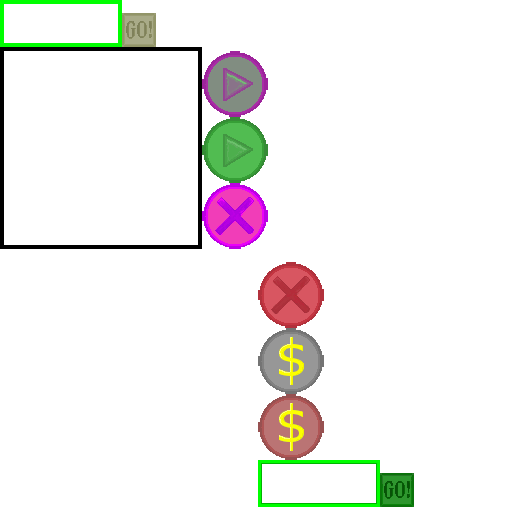
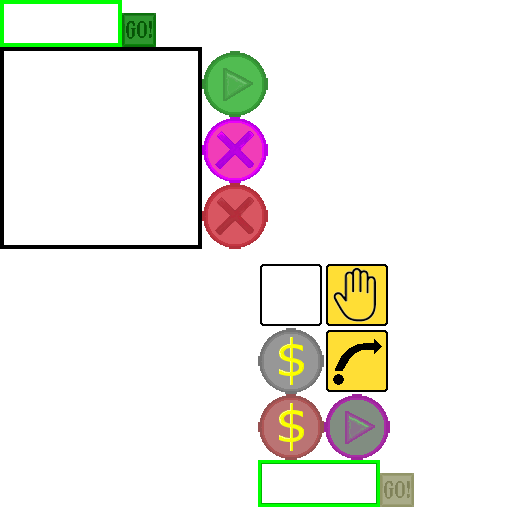
imagebuttons & weaponInv

Changed region(s): [[0.5, 0.5, 0.8125, 1.0], [0.375, 0.0938, 0.5312, 0.5], [0.2188, 0.0, 0.3125, 0.0938]]

diff --git a/SwampMonster/src/com/me/swampmonster/models/L1.java b/SwampMonster/src/com/me/swampmonster/models/L1.java
@@ -7,11 +7,14 @@ import java.util.List;
 import java.util.Random;
 import java.util.Stack;
 
+import com.badlogic.gdx.graphics.g2d.Sprite;
 import com.badlogic.gdx.maps.tiled.TiledMapTileLayer;
 import com.badlogic.gdx.math.Intersector;
 import com.badlogic.gdx.math.Vector2;
 import com.badlogic.gdx.math.Vector3;
 import com.badlogic.gdx.scenes.scene2d.Actor;
+import com.badlogic.gdx.scenes.scene2d.ui.ImageButton;
+import com.badlogic.gdx.scenes.scene2d.ui.Label;
 import com.badlogic.gdx.scenes.scene2d.ui.TextButton;
 import com.badlogic.gdx.scenes.scene2d.utils.ChangeListener;
 import com.me.swampmonster.game.GShape;
@@ -24,7 +27,9 @@ import com.me.swampmonster.models.enemies.Enemy;
 import com.me.swampmonster.models.enemies.EnemySofa;
 import com.me.swampmonster.models.items.HealthKit;
 import com.me.swampmonster.models.items.Oxygen;
+import com.me.swampmonster.models.items.WeaponItem;
 import com.me.swampmonster.models.slots.PoisonArrow;
+import com.me.swampmonster.utils.Assets;
 import com.me.swampmonster.utils.CameraHelper;
 import com.me.swampmonster.utils.Constants;
 import com.me.swampmonster.utils.MisterItemSpawner;
@@ -259,23 +264,51 @@ public class L1 {
 					if(a.equals(item.throwButton)){
 						a.remove();
 					}
-				}
+				}for(Actor a: L1Renderer.stage.getActors()){
+					if(a.equals(item.itemName)){
+						a.remove();
+					}
+			}
 			}else{
 				if (Intersector.overlaps(item.circle, player.rectanlge)
 						&& item.state != State.SPAWNING
 						&& item.pickUpButton == null 
 						&& item.throwButton == null && !(item instanceof Oxygen)
 								&& !(item instanceof HealthKit)) {
-					item.pickUpButton = new TextButton("Use " + item.name,
-							GShape.skin);
-					item.pickUpButton.setSize(150, 50);
-					item.pickUpButton.setX(220);
+					item.itemName = new Label(item.name, GShape.skin);
+					item.itemName.setX(260);
+					item.itemName.setY(yPositionsForButton.get(i));
+					item.pickUpButton = new ImageButton(GShape.skin, "use");
+					item.pickUpButton.setSize(50, 50);
+					item.pickUpButton.setX(400);
 					item.pickUpButton.setY(yPositionsForButton.get(i));
-					item.throwButton = new TextButton("Throw " + item.name,
-							GShape.skin);
-					item.throwButton.setSize(150, 50);
-					item.throwButton.setX(380);
-					item.throwButton.setY(yPositionsForButton.get(i));
+					if(!(item instanceof WeaponItem)){
+						item.throwButton = new ImageButton(GShape.skin, "throw");
+						item.throwButton.setSize(50, 50);
+						item.throwButton.setX(460);
+						item.throwButton.setY(yPositionsForButton.get(i));
+						item.throwButton.addListener(new ChangeListener() {
+						@Override
+							public void changed(ChangeEvent event, Actor actor) {
+								System.out.println("item: " + item);
+								item.parametersForThrowing(player);
+								for(Actor a: L1Renderer.stage.getActors()){
+									if(a.equals(item.pickUpButton)){
+										a.remove();
+										item.pickUpButton = null;
+										i--;
+									}
+								}
+								for(Actor a: L1Renderer.stage.getActors()){
+									if(a.equals(item.throwButton)){
+										a.remove();
+										item.throwButton = null;
+									}
+								}
+	//							Gdx.input.setInputProcessor(null);
+							}
+						});
+					}
 					i++;
 					item.pickUpButton.addListener(new ChangeListener() {
 						@Override
@@ -297,29 +330,12 @@ public class L1 {
 //							Gdx.input.setInputProcessor(null);
 						}
 					});
-					item.throwButton.addListener(new ChangeListener() {
-						@Override
-						public void changed(ChangeEvent event, Actor actor) {
-							System.out.println("item: " + item);
-							item.parametersForThrowing(player);
-							for(Actor a: L1Renderer.stage.getActors()){
-								if(a.equals(item.pickUpButton)){
-									a.remove();
-									item.pickUpButton = null;
-									i--;
-								}
-							}
-							for(Actor a: L1Renderer.stage.getActors()){
-								if(a.equals(item.throwButton)){
-									a.remove();
-									item.throwButton = null;
-								}
-							}
-//							Gdx.input.setInputProcessor(null);
-						}
-					});
+					
 					L1Renderer.stage.addActor(item.pickUpButton);
-					L1Renderer.stage.addActor(item.throwButton);
+					if(!(item instanceof WeaponItem)){
+						L1Renderer.stage.addActor(item.throwButton);
+					}
+					L1Renderer.stage.addActor(item.itemName);
 				}
 				else if(!Intersector.overlaps(item.circle, player.rectanlge)){
 					for(Actor a: L1Renderer.stage.getActors()){
@@ -333,7 +349,13 @@ public class L1 {
 							a.remove();
 						}
 					}
+					for(Actor a: L1Renderer.stage.getActors()){
+						if(a.equals(item.itemName)){
+							a.remove();
+						}
+					}
 					item.throwButton = null;
+					item.itemName = null;
 					item.pickUpButton = null;
 				}
 				if(Intersector.overlaps(item.circle, player.rectanlge) && (item instanceof Oxygen

diff --git a/SwampMonster/src/com/me/swampmonster/game/WeaponUIWindow.java b/SwampMonster/src/com/me/swampmonster/game/WeaponUIWindow.java
@@ -1,0 +1,67 @@
+package com.me.swampmonster.game;
+
+import com.badlogic.gdx.scenes.scene2d.ui.Dialog;
+import com.badlogic.gdx.scenes.scene2d.ui.Image;
+import com.badlogic.gdx.scenes.scene2d.ui.Label;
+import com.badlogic.gdx.scenes.scene2d.ui.Skin;
+import com.badlogic.gdx.scenes.scene2d.ui.Table;
+import com.badlogic.gdx.scenes.scene2d.ui.TextButton;
+import com.me.swampmonster.models.L1;
+import com.me.swampmonster.models.AbstractGameObject.State;
+import com.me.swampmonster.models.items.Weapon;
+import com.me.swampmonster.models.slots.Perks;
+import com.me.swampmonster.models.slots.Slot;
+import com.me.swampmonster.screens.SlotMachineScreen;
+import com.me.swampmonster.slotMachineStuff.SlotMachineTextures;
+import com.me.swampmonster.utils.Assets;
+import com.me.swampmonster.utils.Constants;
+
+public class WeaponUIWindow extends Dialog{
+
+	public Table tabl1;
+	public Table tabl2;
+	public Image wepPicture1;
+	public Image wepPicture2;
+	public Label header1;
+	public Label header2;
+	public TextButton keepButton;
+	public TextButton takeButton;
+	public Weapon wep;
+	
+	public WeaponUIWindow(String title, Skin skin, Weapon weapon) {
+		super("", skin);
+		
+		wep = weapon;
+		
+		tabl1 = new Table();
+		tabl2 = new Table();
+		wepPicture1 = new Image(L1.player.weapon.sprite);
+		wepPicture2 = new Image(weapon.sprite.getTexture());
+		header1 = new Label(L1.player.weapon.name, skin);
+		header2 = new Label(weapon.name, skin);
+		keepButton = new TextButton("KEEP", skin);
+		takeButton = new TextButton("TAKE", skin);
+		
+		tabl1.add(header1);
+		tabl1.add(wepPicture1);
+		tabl2.add(header2);
+		tabl2.add(wepPicture2);
+		
+		getContentTable().add(tabl1).left();
+		getContentTable().add(tabl2).right();
+		
+		button(keepButton, "Keep");
+		button(takeButton, "Take");
+	}
+	
+	@Override
+	protected void result(Object object) {
+		if(object == "Take"){
+			L1.player.weapon = wep;
+		}
+			
+		TheController.paused = false;
+		super.result(object);
+	}
+	
+}

diff --git a/SwampMonster/src/com/me/swampmonster/utils/WaveGenerator.java b/SwampMonster/src/com/me/swampmonster/utils/WaveGenerator.java
@@ -14,16 +14,16 @@ public class WaveGenerator {
 	
 	private enum WaveParams{
 		//                     *-et*+et*-tt*+tt*-ws**+ws*-tw*+tw**-eb*+eb**rate***perd*-w**+w*
-		p0_500					(0,  1,  0,  2,  6,   12,  2,  5,  6,  7,  12.0f,  50,  2,  3),
+		p0_500					(0,  1,  0,  2,  7,   12,  2,  5,  6,  7,  12.0f,  50,  2,  3),
 		p0_500_Elite			(0,  1,  1,  2,  7,   13,  7,  13, 6,  7,  12.0f,  50,  2,  3),
 		p0_500_A				(4,  5,  0,  2,  10,  17,  0,  1,  6,  7,  12.0f,  50,  2,  3),
 		//                     *-et*+et*-tt*+tt*-ws**+ws*-tw*+tw***-eb*+eb**rate***perd*-w**+w*
-		p500_1000				(0,  1,  0,  2,  12,  20,  8,  16,  6,  7,  12.0f,  50,  2,  3),
+		p500_1000				(0,  1,  0,  2,  12,  20,  8,  12,  6,  7,  12.0f,  50,  2,  3),
 		p500_1000_Elite			(0,  1,  1,  2,  10,  17,  10, 17,  6,  7,  12.0f,  50,  2,  3),
 		p500_1000_A				(4,  5,  0,  2,  15,  23,  0,  1,   6,  7,  12.0f,  50,  2,  3),
 		//     				   *-et*+et*-tt*+tt*-ws**+ws**-tw*+tw**-eb**+eb***rate**perd*-w**+w*
-		p1000_3000				(0,  2,  0,  3,  18,  30,  12, 25,  12,  18,  9.5f,  50,  3,  4),
-		p1000_3000_Elite		(0,  1,  1,  3,  14,  22,  14, 22,  14,  18,  9.5f,  50,  3,  4),
+		p1000_3000				(0,  2,  0,  3,  18,  30,  9, 18,  12,  18,  9.5f,  50,  3,  4),
+		p1000_3000_Elite		(0,  1,  1,  3,  14,  22,  14, 22, 14,  18,  9.5f,  50,  3,  4),
 		p1000_3000_A			(4,  5,  0,  3,  10,  20,  0,  5,  11,  18,  9.5f,  50,  3,  4),
 		//     				   *-et*+et*-tt*+tt*-ws**+ws*-tw**+tw**-eb**+eb***rate**perd*-w**+w*
 		p3000_5000				(0,  3,  0,  4,  25,  35,  8,  20,  15,  25,  6.0f,  50,  3,  5),

diff --git a/SwampMonster/src/com/me/swampmonster/models/items/WeaponItem.java b/SwampMonster/src/com/me/swampmonster/models/items/WeaponItem.java
@@ -2,6 +2,10 @@ package com.me.swampmonster.models.items;
 
 import com.badlogic.gdx.graphics.g2d.Sprite;
 import com.me.swampmonster.animations.AnimationControl;
+import com.me.swampmonster.game.GShape;
+import com.me.swampmonster.game.L1Renderer;
+import com.me.swampmonster.game.TheController;
+import com.me.swampmonster.game.WeaponUIWindow;
 import com.me.swampmonster.models.Item;
 import com.me.swampmonster.models.Player;
 import com.me.swampmonster.utils.Assets;
@@ -24,12 +28,19 @@ public class WeaponItem extends Item{
 	
 	@Override
 	public void pickMeUp(Player player) {
-		player.weapon = this.weapon;
+//		player.weapon = this.weapon;
+		TheController.showWeaponInv = true;
+		GShape.weaponDialog = new WeaponUIWindow("statuk'", GShape.skin, weapon);
+		GShape.weaponDialog.setSize(250, 250);
+		GShape.weaponDialog.setX(320);
+		GShape.weaponDialog.setY(50);
+		TheController.paused = true;
 		System.out.println("player weapon stats: type:"
 				+ player.weapon.getClass().getSimpleName() + " attack: "
 				+ player.weapon.minDD + " - " + player.weapon.maxDD + " mods: "
 				+ player.weapon.mod1 + " " + player.weapon.mod2);
 		state = State.DEAD;
+		L1Renderer.stage.addActor(GShape.weaponDialog);
 	}
 
 	@Override

diff --git a/SwampMonster/src/com/me/swampmonster/utils/ItemGenerator.java b/SwampMonster/src/com/me/swampmonster/utils/ItemGenerator.java
@@ -95,8 +95,8 @@ public class ItemGenerator {
 				+ itEmsTypes.minItemGenerate;
 		Item item = null;
 		try {
-			Class<? extends Item> itemClass = items.get(number);
-//			Class<? extends Item> itemClass = CHAIN_ARROWS.class;
+//			Class<? extends Item> itemClass = items.get(number);
+			Class<? extends Item> itemClass = HASTE.class;
 			int randomTextureNumber;
 			if (itemClass.getDeclaredField("poisonSprite").get(null) == null) {
 				randomTextureNumber = random.nextInt(poisonTextures.size());
@@ -126,12 +126,12 @@ public class ItemGenerator {
 	
 	public Item generateItem(int playersScore) {
 		int probability = random.nextInt(100);
-		if (probability > 70){
-			return generateSpecialItem(playersScore);
-//			return getWeaponItem(playersScore);
-		} else {
-			return getPlainItem(playersScore);
-		}
+//		if (probability > 70){
+//			return generateSpecialItem(playersScore);
+			return getWeaponItem(playersScore);
+//		} else {
+//			return getPlainItem(playersScore);
+//		}
 	}
 	
 	public Item getMoreLikelyOxugenItem(int playersScore){

diff --git a/SwampMonster/src/com/me/swampmonster/models/Item.java b/SwampMonster/src/com/me/swampmonster/models/Item.java
@@ -9,6 +9,8 @@ import com.badlogic.gdx.graphics.g2d.TextureRegion;
 import com.badlogic.gdx.maps.tiled.TiledMapTileLayer;
 import com.badlogic.gdx.math.Circle;
 import com.badlogic.gdx.math.Vector2;
+import com.badlogic.gdx.scenes.scene2d.ui.ImageButton;
+import com.badlogic.gdx.scenes.scene2d.ui.Label;
 import com.badlogic.gdx.scenes.scene2d.ui.TextButton;
 import com.me.swampmonster.game.collision.CollisionHelper;
 
@@ -27,8 +29,10 @@ public abstract class Item extends AbstractGameObject{
 	public Vector2 spawnPos;
 	public Vector2 targetPos;
 	public TiledMapTileLayer collisionLayer;
-	public TextButton pickUpButton;
-	public TextButton throwButton;
+	public ImageButton pickUpButton;
+	public ImageButton throwButton;
+	public ImageButton inspectButton;
+	public Label itemName;
 	
 	//Animations
 	public Item(){

diff --git a/SwampMonster/src/com/me/swampmonster/models/Player.java b/SwampMonster/src/com/me/swampmonster/models/Player.java
@@ -733,7 +733,7 @@ public class Player extends AbstractGameObject {
 					sprite.getColor().b, 0.5f);
 			radioactiveAura = null;
 			positiveEffectsState = positiveEffect;
-			positiveEffectCounter = positiveEffect.lifetime;
+//			positiveEffectCounter = positiveEffect.lifetime;
 			break;
 		case RADIOACTIVE_AURA:
 			movementSpeed = STANDART_MOVEMENT_SPEED;
@@ -765,7 +765,7 @@ public class Player extends AbstractGameObject {
 			weapon.minDD = weapon.minDD + 2;
 			weapon.maxDD = weapon.maxDD + 2;
 			positiveEffectsState = positiveEffect;
-			positiveEffectCounter = HASTE.lifeTime;
+//			positiveEffectCounter = positiveEffect.lifetime;
 			break;
 		case NONE:
 			if (negativeEffectsState == NegativeEffects.NONE

diff --git a/SwampMonster/src/com/me/swampmonster/models/items/Weapon.java b/SwampMonster/src/com/me/swampmonster/models/items/Weapon.java
@@ -15,6 +15,7 @@ import com.me.swampmonster.models.L1;
 import com.me.swampmonster.models.Projectile;
 import com.me.swampmonster.models.Projectile.EffectCarriers;
 import com.me.swampmonster.models.items.wepMods.Modificator;
+import com.me.swampmonster.utils.Assets;
 
 public class Weapon extends AbstractGameObject{
 	
@@ -32,6 +33,9 @@ public class Weapon extends AbstractGameObject{
 	
 	public Weapon(){
 		super();
+		
+		sprite = new Sprite(Assets.manager.get(Assets.wepBOW));
+		name = this.getClass().getSimpleName();
 	}
 	
 	public void update(TiledMapTileLayer collisionLayer){

diff --git a/SwampMonster/src/com/me/swampmonster/models/items/Bow.java b/SwampMonster/src/com/me/swampmonster/models/items/Bow.java
@@ -2,7 +2,9 @@ package com.me.swampmonster.models.items;
 
 import com.badlogic.gdx.assets.AssetDescriptor;
 import com.badlogic.gdx.graphics.Texture;
+import com.badlogic.gdx.graphics.g2d.Sprite;
 import com.badlogic.gdx.maps.tiled.TiledMapTileLayer;
+import com.me.swampmonster.utils.Assets;
 
 public class Bow extends Weapon{
 	
@@ -10,6 +12,8 @@ public class Bow extends Weapon{
 	
 	public Bow(){
 		super();
+		
+		sprite = new Sprite(Assets.manager.get(Assets.wepBOW));
 		
 		minDD = 1;
 		maxDD = 3;

diff --git a/SwampMonster/src/com/me/swampmonster/models/items/FADE.java b/SwampMonster/src/com/me/swampmonster/models/items/FADE.java
@@ -61,6 +61,7 @@ public class FADE extends Item {
 		player.positiveEffectSprite = new Sprite(
 				Assets.manager.get(Assets.FADE_ICON));
 		player.setPositiveEffect(PositiveEffects.FADE);
+		player.positiveEffectCounter = lifeTime;
 		// System.out.println("Hi! I am RADIOACTIVE aura, circle radius: ");
 		this.state = State.DEAD;
 

diff --git a/SwampMonster/src/com/me/swampmonster/game/TheController.java b/SwampMonster/src/com/me/swampmonster/game/TheController.java
@@ -78,6 +78,7 @@ public class TheController extends InputAdapter {
 	public static Slot skill;
 	public static boolean germany;
 	public static boolean showFeedback;
+	public static boolean showWeaponInv;
 	public static boolean gotoMenu;
 	public static boolean paused;
 	public static boolean pausedTutorial;

diff --git a/SwampMonster/src/com/me/swampmonster/models/items/HASTE.java b/SwampMonster/src/com/me/swampmonster/models/items/HASTE.java
@@ -56,6 +56,7 @@ public class HASTE extends Item{
 		this.state=State.DEAD;
 		player.positiveEffectSprite = new Sprite(Assets.manager.get(Assets.HASTE_ICON));
 		player.setPositiveEffect(PositiveEffects.HASTE);
+		player.positiveEffectCounter = lifeTime;
 		System.out.println("I am Haste, biatch");
 	}
 
